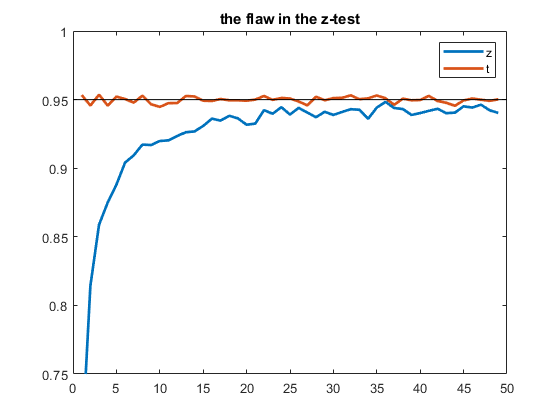
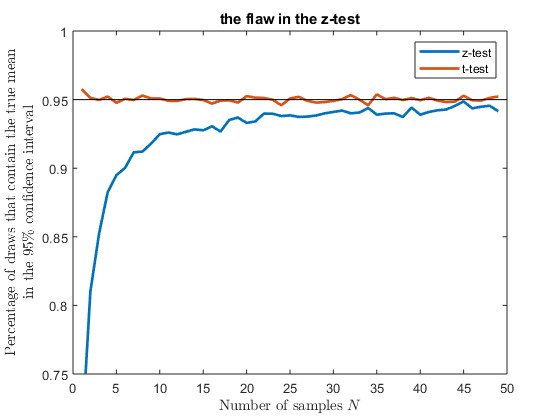
minor edits to zflaw

diff --git a/zflaw/html/zflaw.html b/zflaw/html/zflaw.html
@@ -6,7 +6,7 @@
    <!--
 This HTML was auto-generated from MATLAB code.
 To make changes, update the MATLAB code and republish this document.
-      --><title>zflaw</title><meta name="generator" content="MATLAB 9.4"><link rel="schema.DC" href="http://purl.org/dc/elements/1.1/"><meta name="DC.date" content="2018-06-21"><meta name="DC.source" content="zflaw.m"><style type="text/css">
+      --><title>zflaw</title><meta name="generator" content="MATLAB 9.4"><link rel="schema.DC" href="http://purl.org/dc/elements/1.1/"><meta name="DC.date" content="2019-02-09"><meta name="DC.source" content="zflaw.m"><style type="text/css">
 html,body,div,span,applet,object,iframe,h1,h2,h3,h4,h5,h6,p,blockquote,pre,a,abbr,acronym,address,big,cite,code,del,dfn,em,font,img,ins,kbd,q,s,samp,small,strike,strong,sub,sup,tt,var,b,u,i,center,dl,dt,dd,ol,ul,li,fieldset,form,label,legend,table,caption,tbody,tfoot,thead,tr,th,td{margin:0;padding:0;border:0;outline:0;font-size:100%;vertical-align:baseline;background:transparent}body{line-height:1}ol,ul{list-style:none}blockquote,q{quotes:none}blockquote:before,blockquote:after,q:before,q:after{content:'';content:none}:focus{outine:0}ins{text-decoration:none}del{text-decoration:line-through}table{border-collapse:collapse;border-spacing:0}
 
 html { min-height:100%; margin-bottom:1px; }
@@ -67,13 +67,15 @@ table td { padding:7px 5px; text-align:left; vertical-align:top; border:1px soli
 
 
   </style></head><body><div class="content"><pre class="codeinput"><span class="comment">% assume population distribution is standard normal.</span>
-<span class="comment">% repeatedly draw samples (a 1000 times) of size N = 2:50</span>
+<span class="comment">% repeatedly draw samples (REP times) of size N = 2:50</span>
 
 clear; close <span class="string">all</span>;
 
-REP = 10000; <span class="comment">% number of repeatition</span>
+REP = 10000; <span class="comment">% number of repititions</span>
 
 figure;
+
+<span class="comment">% N: Number of samples</span>
 
 <span class="comment">% z-confidence interval</span>
 count = zeros(1, 50);
@@ -99,7 +101,7 @@ plot(count(2:end), <span class="string">'LineWidth'</span>, 2); hold <span class
 <span class="comment">% t-confidence interval</span>
 count = zeros(1, 50);
 <span class="keyword">for</span> N = 2:50
-    t = tinv(0.975, N-1); <span class="comment">% t-score account for degrees of freedom</span>
+    t = tinv(0.975, N-1); <span class="comment">% t-score accounts for degrees of freedom</span>
     <span class="keyword">for</span> r = 1:REP
         sample = randn(N, 1);
         mu = mean(sample); <span class="comment">% sample mean</span>
@@ -116,21 +118,25 @@ count = zeros(1, 50);
 <span class="keyword">end</span>
 
 plot(count(2:end), <span class="string">'LineWidth'</span>, 2); hold <span class="string">on</span>;
-legend(<span class="string">'z'</span>, <span class="string">'t'</span>)
+legend(<span class="string">'z-test'</span>, <span class="string">'t-test'</span>)
 x=get(gca,<span class="string">'xlim'</span>);
 line(x, [0.95 0.95], <span class="string">'Color'</span>, <span class="string">'black'</span>, <span class="string">'LineWidth'</span>, 0.05, <span class="string">'HandleVisibility'</span>, <span class="string">'off'</span>); hold <span class="string">on</span>;
 ylim([0.75 1]);
+xlabel(<span class="string">'Number of samples $N$'</span>, <span class="string">'Interpreter'</span>, <span class="string">'latex'</span>)
+ylabel({<span class="string">'Percentage of draws that contain the true mean'</span>,<span class="string">'in the 95\% confidence interval'</span>}, <span class="string">'Interpreter'</span>, <span class="string">'latex'</span>)
 title(<span class="string">'the flaw in the z-test'</span>)
 </pre><img vspace="5" hspace="5" src="zflaw_01.png" alt=""> <p class="footer"><br><a href="https://www.mathworks.com/products/matlab/">Published with MATLAB&reg; R2018a</a><br></p></div><!--
 ##### SOURCE BEGIN #####
 % assume population distribution is standard normal.
-% repeatedly draw samples (a 1000 times) of size N = 2:50
+% repeatedly draw samples (REP times) of size N = 2:50
 
 clear; close all;
 
-REP = 10000; % number of repeatition
+REP = 10000; % number of repititions
 
 figure;
+
+% N: Number of samples
 
 % z-confidence interval
 count = zeros(1, 50);
@@ -156,7 +162,7 @@ plot(count(2:end), 'LineWidth', 2); hold on;
 % t-confidence interval
 count = zeros(1, 50);
 for N = 2:50
-    t = tinv(0.975, N-1); % t-score account for degrees of freedom
+    t = tinv(0.975, N-1); % t-score accounts for degrees of freedom
     for r = 1:REP
         sample = randn(N, 1);
         mu = mean(sample); % sample mean
@@ -173,10 +179,12 @@ for N = 2:50
 end
 
 plot(count(2:end), 'LineWidth', 2); hold on;
-legend('z', 't')
+legend('z-test', 't-test')
 x=get(gca,'xlim');
 line(x, [0.95 0.95], 'Color', 'black', 'LineWidth', 0.05, 'HandleVisibility', 'off'); hold on;
 ylim([0.75 1]);
+xlabel('Number of samples $N$', 'Interpreter', 'latex')
+ylabel({'Percentage of draws that contain the true mean','in the 95\% confidence interval'}, 'Interpreter', 'latex')
 title('the flaw in the z-test')
 
 ##### SOURCE END #####

diff --git a/zflaw/zflaw.m b/zflaw/zflaw.m
@@ -1,11 +1,13 @@
 % assume population distribution is standard normal.
-% repeatedly draw samples (a 1000 times) of size N = 2:50
+% repeatedly draw samples (REP times) of size N = 2:50
 
 clear; close all;
 
 REP = 10000; % number of repititions
 
 figure;
+
+% N: Number of samples
 
 % z-confidence interval
 count = zeros(1, 50);
@@ -48,7 +50,7 @@ for N = 2:50
 end
 
 plot(count(2:end), 'LineWidth', 2); hold on;
-legend('z', 't')
+legend('z-test', 't-test')
 x=get(gca,'xlim');
 line(x, [0.95 0.95], 'Color', 'black', 'LineWidth', 0.05, 'HandleVisibility', 'off'); hold on;
 ylim([0.75 1]);
